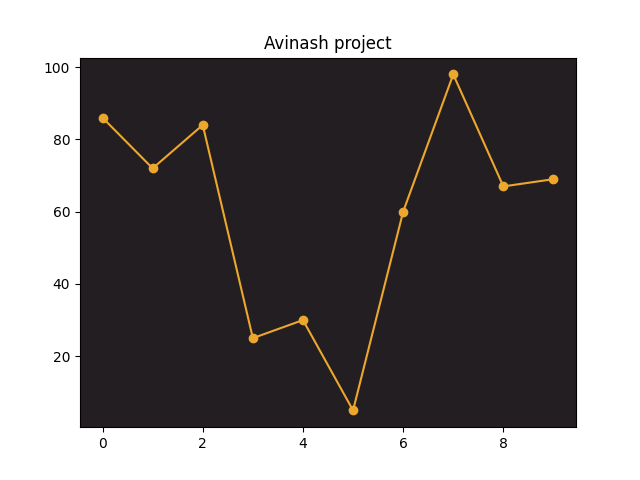
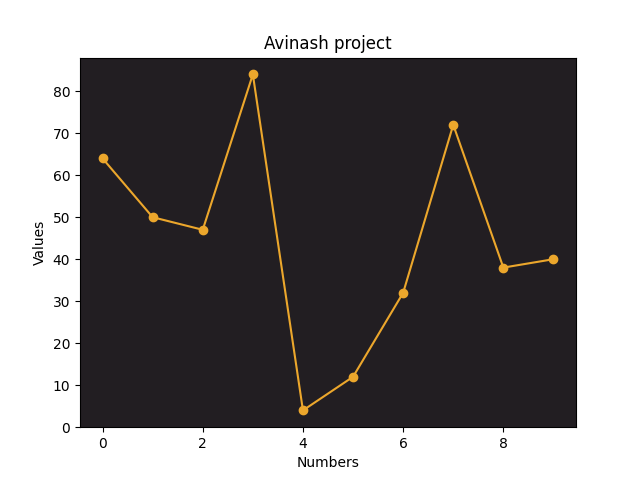
Python added labels for Avi Project

diff --git a/Term_2/Python Assignments/Final Project/t1.py b/Term_2/Python Assignments/Final Project/t1.py
@@ -1,21 +1,27 @@
 import numpy as np
 import matplotlib.pyplot as plt
+#above are the libraries imported
 
+# Avinash Baddam , C0877290 
 
-# Avinash Reddy Baddam , C0877290
-
+# Set the title of the plot
 plt.title("Avinash project")
 
-
+# Generate an array of 10 random integers between 0 and 99
 x = np.random.randint(100, size=10)
 
-#ax = plt.axes()
-
+# Get the current Axes instance and set the face color of the plot
 ax = plt.gca()
 ax.set_facecolor("#221E22")
 
+# Plot the data with circular markers and a custom color
 plt.plot(x, marker='o', color='#ECA72C')
+
+plt.xlabel("Numbers")
+plt.ylabel("Values")
+
+# Save the plot as a png file
 plt.savefig('chart.png')
-plt.show() 
 
-
+# Display the plot on the screen
+plt.show()
